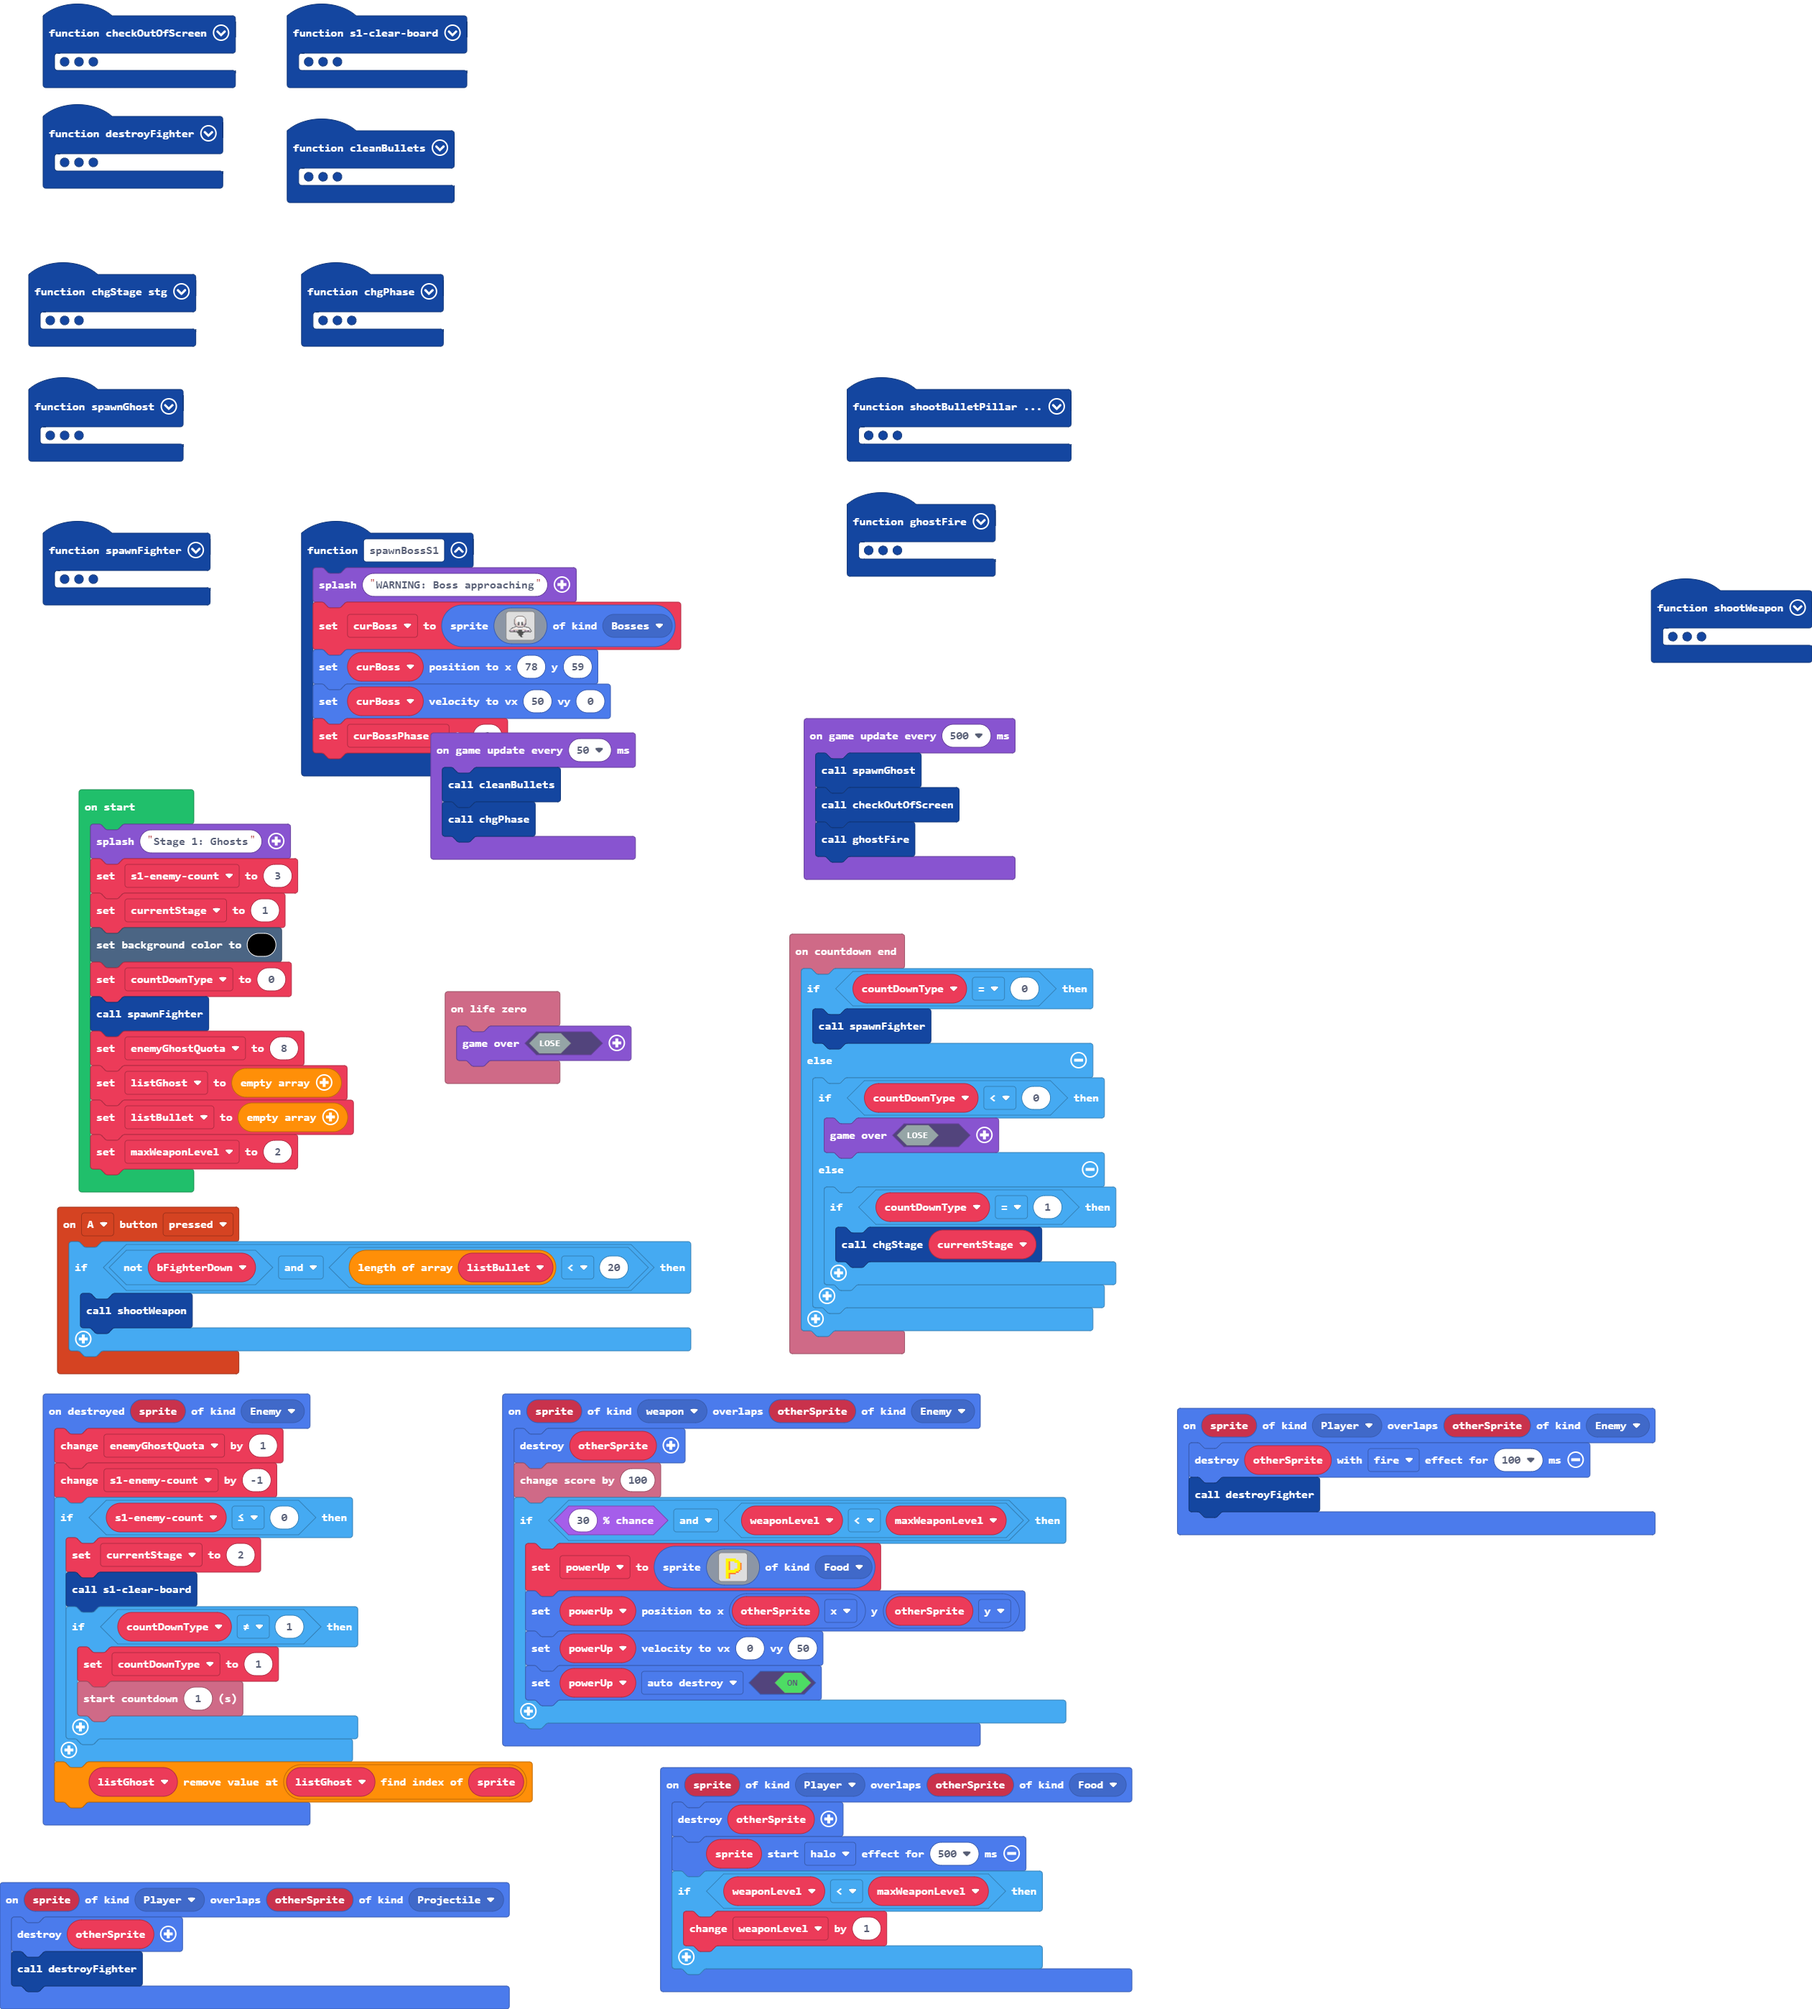
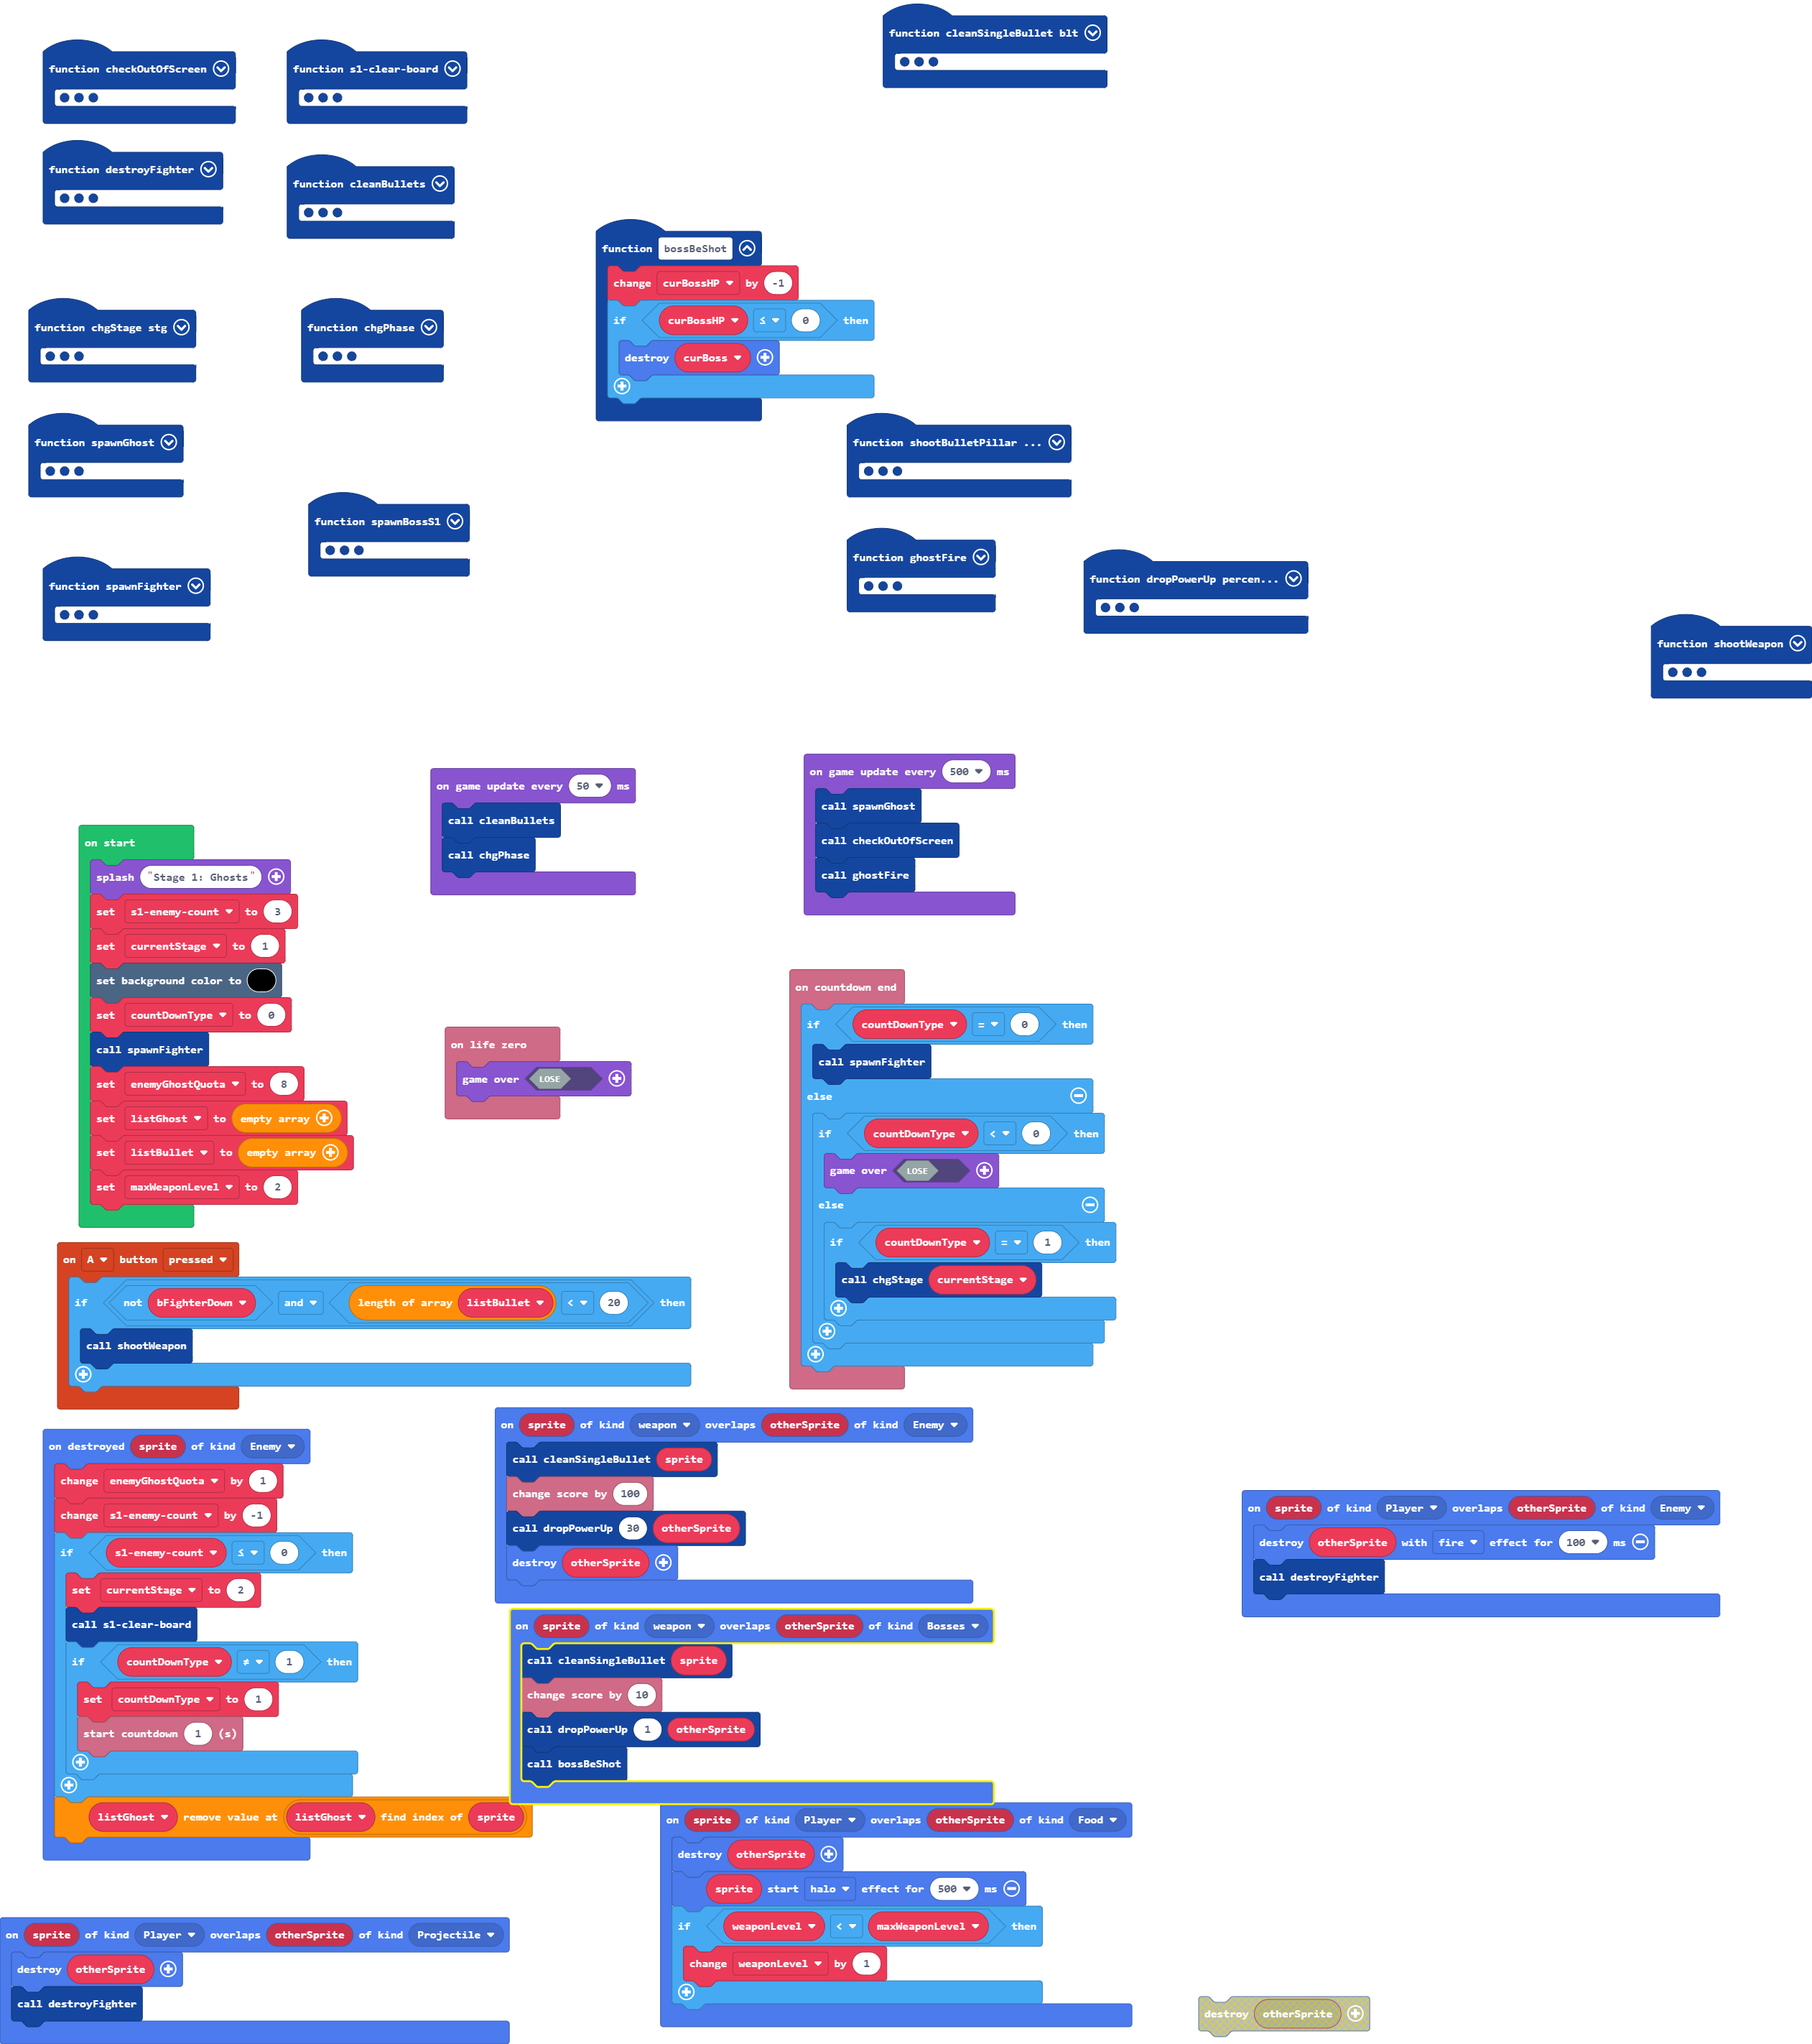
stage 1 boss with high HP

diff --git a/main.ts b/main.ts
@@ -3,31 +3,10 @@ namespace SpriteKind {
     export const Bosses = SpriteKind.create()
 }
 sprites.onOverlap(SpriteKind.weapon, SpriteKind.Enemy, function (sprite, otherSprite) {
-    otherSprite.destroy()
+    cleanSingleBullet(sprite)
     info.changeScoreBy(100)
-    if (Math.percentChance(30) && weaponLevel < maxWeaponLevel) {
-        powerUp = sprites.create(img`
-            . . . . . . . . . . . . . . . . 
-            . . . . . . . . . . . . . . . . 
-            . . . 5 5 5 5 5 5 5 . . . . . . 
-            . . . 5 5 5 5 5 5 5 5 5 . . . . 
-            . . . 5 5 4 . . . 5 5 5 5 . . . 
-            . . . 5 5 4 . . . . . 5 5 4 . . 
-            . . . 5 5 4 . . . . . 5 5 4 . . 
-            . . . 5 5 4 . . . . . 5 5 4 . . 
-            . . . 5 5 4 . . . . . 5 5 4 . . 
-            . . . 5 5 4 . . . 5 5 5 5 4 . . 
-            . . . 5 5 5 5 5 5 5 5 5 4 . . . 
-            . . . 5 5 5 5 5 5 5 4 4 . . . . 
-            . . . 5 5 4 4 4 4 4 . . . . . . 
-            . . . 5 5 4 . . . . . . . . . . 
-            . . . 5 5 4 . . . . . . . . . . 
-            . . . 5 5 4 . . . . . . . . . . 
-            `, SpriteKind.Food)
-        powerUp.setPosition(otherSprite.x, otherSprite.y)
-        powerUp.setVelocity(0, 50)
-        powerUp.setFlag(SpriteFlag.AutoDestroy, true)
-    }
+    dropPowerUp(30, otherSprite)
+    otherSprite.destroy()
 })
 function spawnFighter () {
     fighter = sprites.create(img`
@@ -64,11 +43,42 @@ function cleanBullets () {
         listBullet.push(locBullet)
     }
 }
+function dropPowerUp (percentage: number, enmy: Sprite) {
+    if (Math.percentChance(percentage) && weaponLevel < maxWeaponLevel) {
+        powerUp = sprites.create(img`
+            . . . . . . . . . . . . . . . . 
+            . . . . . . . . . . . . . . . . 
+            . . . 5 5 5 5 5 5 5 . . . . . . 
+            . . . 5 5 5 5 5 5 5 5 5 . . . . 
+            . . . 5 5 4 . . . 5 5 5 5 . . . 
+            . . . 5 5 4 . . . . . 5 5 4 . . 
+            . . . 5 5 4 . . . . . 5 5 4 . . 
+            . . . 5 5 4 . . . . . 5 5 4 . . 
+            . . . 5 5 4 . . . . . 5 5 4 . . 
+            . . . 5 5 4 . . . 5 5 5 5 4 . . 
+            . . . 5 5 5 5 5 5 5 5 5 4 . . . 
+            . . . 5 5 5 5 5 5 5 4 4 . . . . 
+            . . . 5 5 4 4 4 4 4 . . . . . . 
+            . . . 5 5 4 . . . . . . . . . . 
+            . . . 5 5 4 . . . . . . . . . . 
+            . . . 5 5 4 . . . . . . . . . . 
+            `, SpriteKind.Food)
+        powerUp.setPosition(enmy.x, enmy.y)
+        powerUp.setVelocity(0, 50)
+        powerUp.setFlag(SpriteFlag.AutoDestroy, true)
+    }
+}
 controller.A.onEvent(ControllerButtonEvent.Pressed, function () {
     if (!(bFighterDown) && listBullet.length < 20) {
         shootWeapon()
     }
 })
+function cleanSingleBullet (blt: Sprite) {
+    if (listBullet.length > 0) {
+        listBullet.removeAt(listBullet.indexOf(blt))
+        blt.destroy()
+    }
+}
 function checkOutOfScreen () {
     for (let value of listGhost) {
         if (value.x < 0 || (value.x > 160 || value.y > 120)) {
@@ -168,6 +178,12 @@ sprites.onOverlap(SpriteKind.Player, SpriteKind.Food, function (sprite, otherSpr
         weaponLevel += 1
     }
 })
+function bossBeShot () {
+    curBossHP += -1
+    if (curBossHP <= 0) {
+        curBoss.destroy()
+    }
+}
 sprites.onDestroyed(SpriteKind.Enemy, function (sprite) {
     enemyGhostQuota += 1
     s1enemycount += -1
@@ -235,6 +251,7 @@ function spawnBossS1 () {
         `, SpriteKind.Bosses)
     curBoss.setPosition(78, 59)
     curBoss.setVelocity(50, 0)
+    curBossHP = 40
     curBossPhase = 1
 }
 function chgStage (stg: number) {
@@ -282,20 +299,27 @@ function shootBulletPillar (lvl: number, spread: number) {
         listBullet.unshift(bullet)
     }
 }
+sprites.onOverlap(SpriteKind.weapon, SpriteKind.Bosses, function (sprite, otherSprite) {
+    cleanSingleBullet(sprite)
+    info.changeScoreBy(10)
+    dropPowerUp(1, otherSprite)
+    bossBeShot()
+})
 sprites.onOverlap(SpriteKind.Player, SpriteKind.Enemy, function (sprite, otherSprite) {
     otherSprite.destroy(effects.fire, 100)
     destroyFighter()
 })
 let bullet: Sprite = null
 let projectile: Sprite = null
+let curBossHP = 0
 let curBoss: Sprite = null
 let curBossPhase = 0
 let locGhost: Sprite = null
+let powerUp: Sprite = null
 let locBullet: Sprite = null
 let bFighterDown = false
-let fighter: Sprite = null
-let powerUp: Sprite = null
 let weaponLevel = 0
+let fighter: Sprite = null
 let maxWeaponLevel = 0
 let listBullet: Sprite[] = []
 let listGhost: Sprite[] = []
